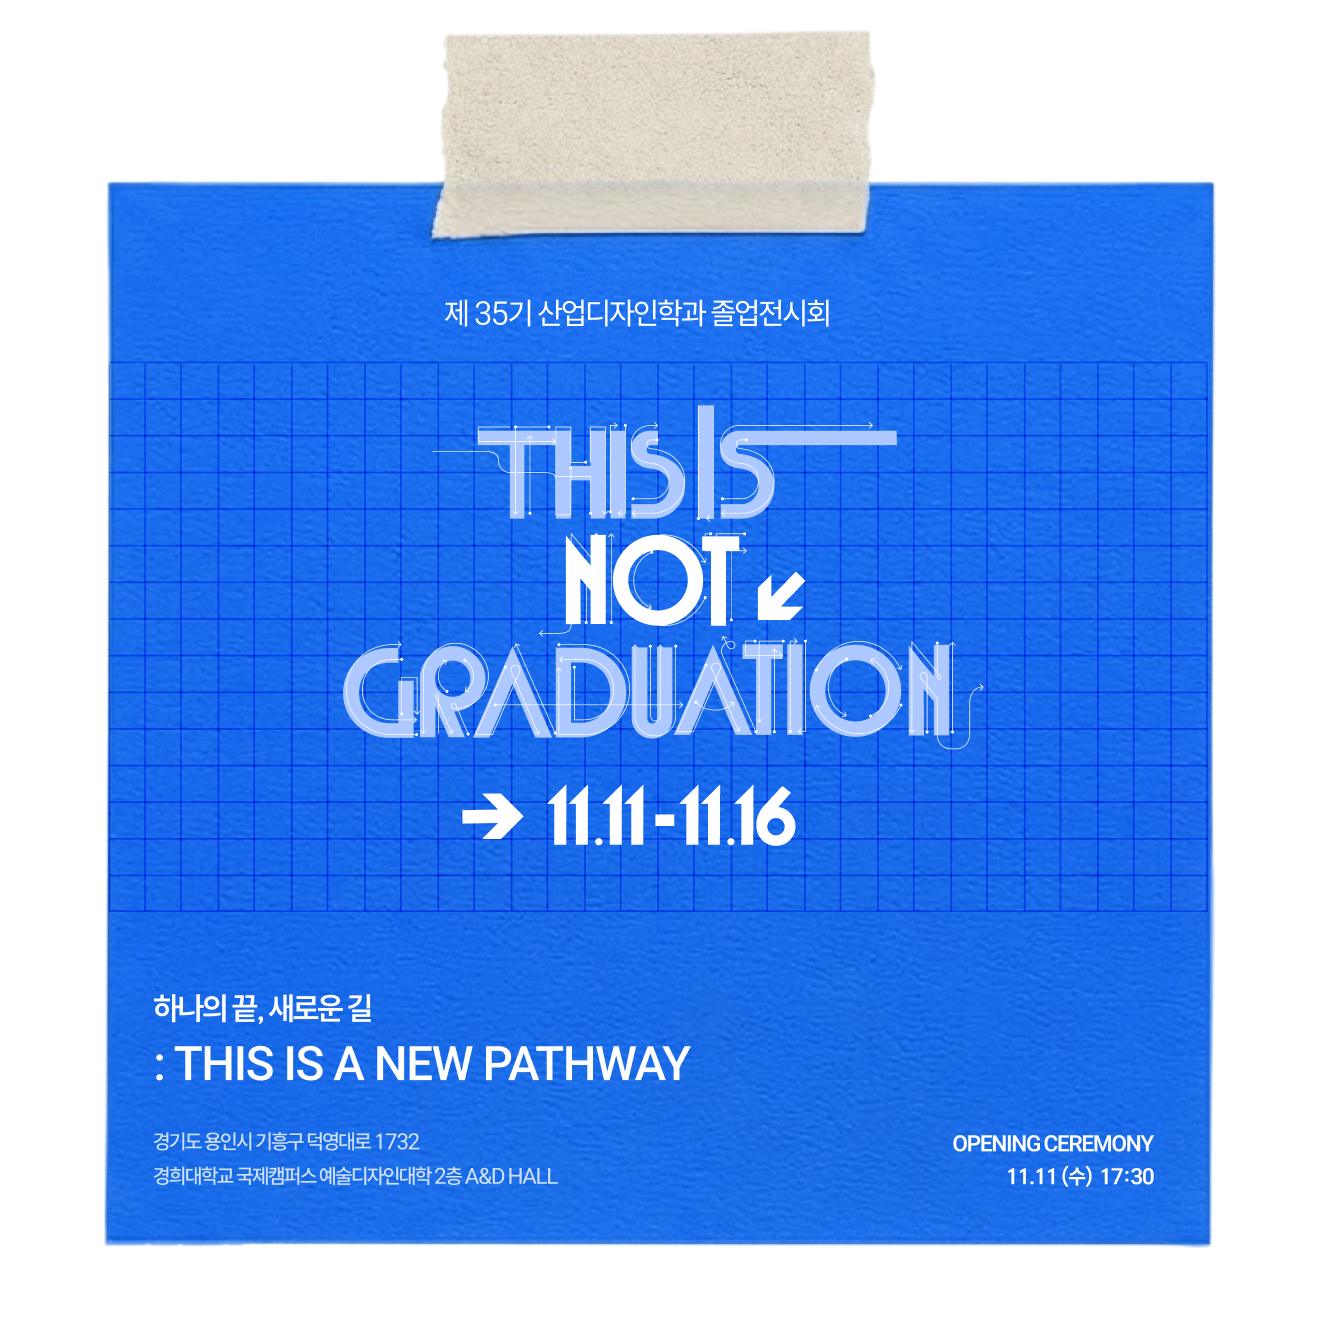
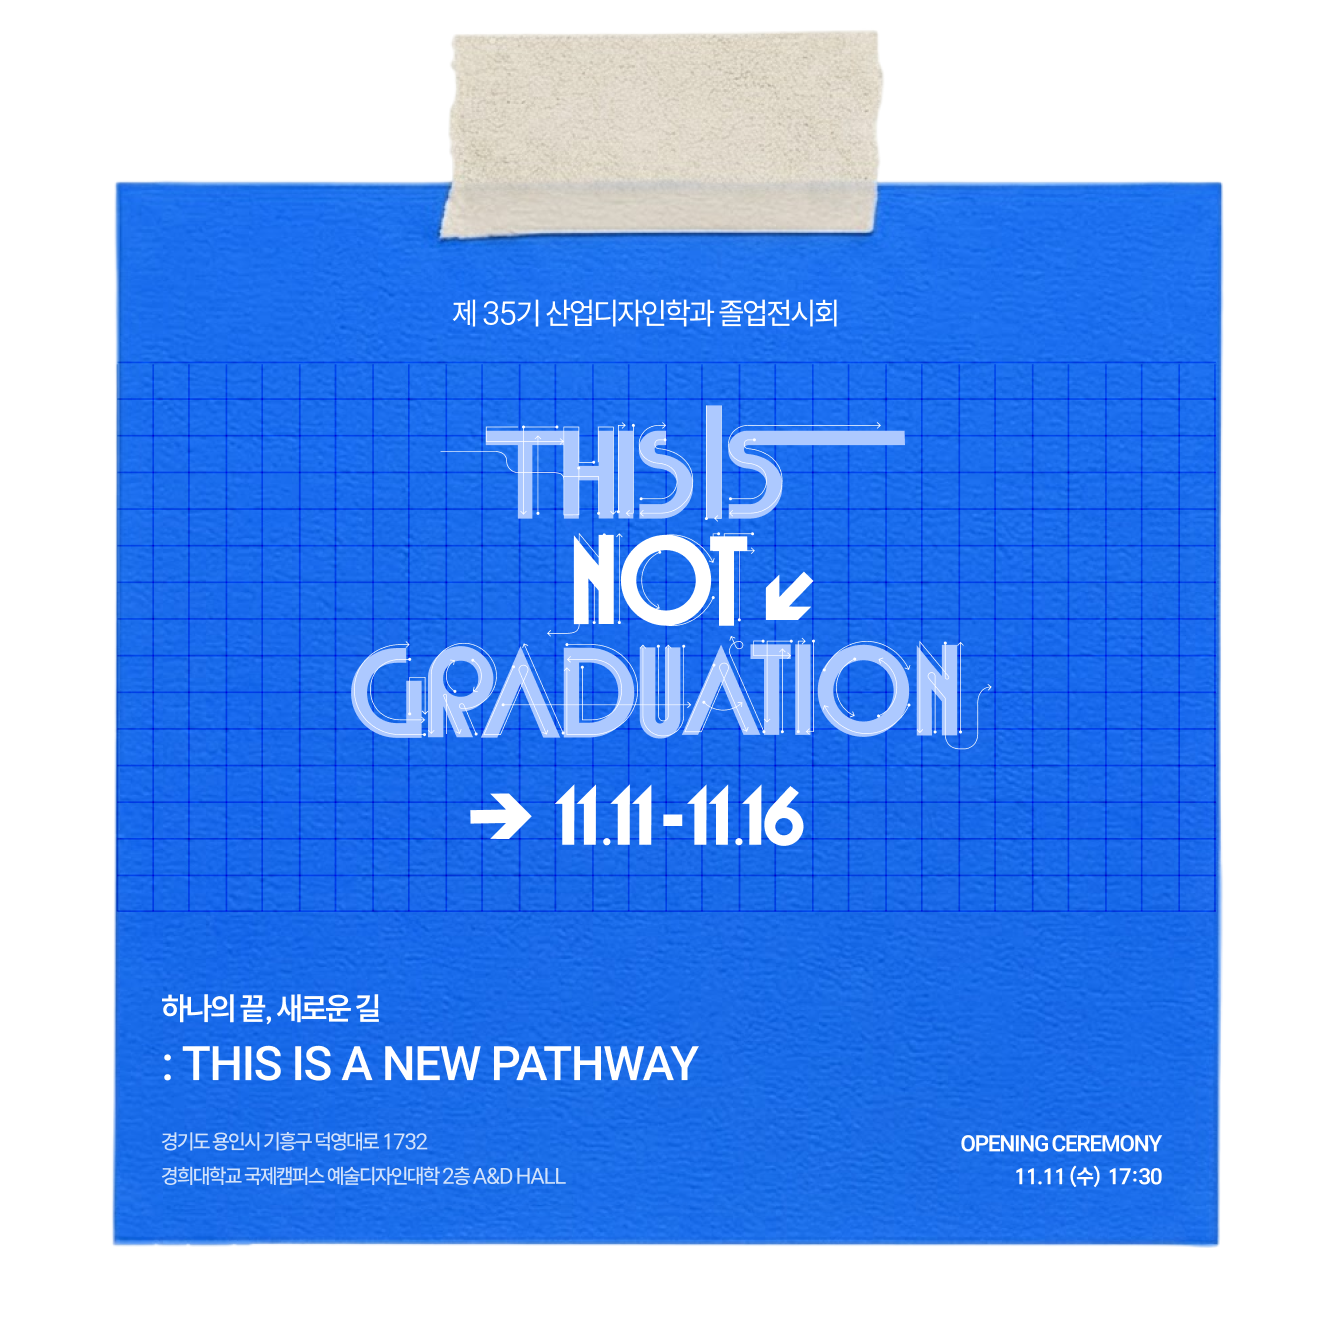
Hero invitation stack with test cards + push-down motion; mobile header
- Replace invitations with test PNGs (660 canvas @2x, transparent, pre-rotated)
  stacked in place; only the latest year in color, older years grayscale
- Stack-in motion: each card pushes down from above the viewport, oldest
  first (23 -> 26), 150ms stagger
- Prefer invitation.png over jpg; remove unused 2023-2025 invitation.jpg
- Header: #121212 at 80%; below 1280 logos scaled to Figma mobile (0.786x),
  16px side padding, 44px height, description text hidden

Changed region(s): [[0.0621, 0.1242, 0.9318, 0.9629], [0.3417, 0.2174, 0.6523, 0.2485], [0.7144, 0.8386, 0.8697, 0.9008]]

diff --git a/src/components/Phase1Hero.tsx b/src/components/Phase1Hero.tsx
@@ -29,22 +29,17 @@ export default function Phase1Hero({ exhibitions }: Props) {
       {/* Figma 실측: 360×360(모바일), 660×660(1440), 726×726(1920) — 전부 정방형.
           모바일 구간은 360 × 배율, 1280~1439는 텍스트 칼럼(530)과 한 줄에 들어가도록 480 */}
       <div className="relative aspect-square w-full max-w-[calc(360px*var(--s))] shrink-0 min-[1280px]:max-w-[480px] min-[1440px]:max-w-[660px] min-[1920px]:max-w-[726px]">
+        {/* 초대장 PNG는 각자 회전·위치가 들어간 660 정사각 투명 캔버스라 같은 자리에 그대로 겹침.
+            오래된 연도부터(23→24→25→26) 화면 위에서 빠르게 내려와 쌓이고, 최신 연도만 컬러·나머지는 회색조 */}
         {stack.map((ex, i) => {
           const isLatest = i === stack.length - 1;
-          const depth = stack.length - 1 - i; // 0 = 최신(맨 위), 커질수록 더 아래/오래된 카드
-          const rotation = ((i * 37) % 13) - 6; // -6deg ~ +6deg, 연도마다 고정된 각도
-          const scale = isLatest ? 1 : 0.94 - depth * 0.015;
-          const offsetX = isLatest ? 0 : (i % 2 === 0 ? -1 : 1) * (6 + depth * 5);
-          const offsetY = isLatest ? 0 : depth * 7;
           return (
             <div
               key={ex.year}
-              className="absolute inset-0 origin-center animate-[stack-in_0.6s_ease-out_both] shadow-[0_20px_60px_rgba(0,0,0,0.35)]"
-              style={{
-                zIndex: i,
-                transform: `translate(${offsetX}px, ${offsetY}px) rotate(${rotation}deg) scale(${scale})`,
-                animationDelay: `${i * 90}ms`,
-              }}
+              className={`absolute inset-0 animate-[stack-in_0.6s_cubic-bezier(0.22,1,0.36,1)_both] ${
+                isLatest ? "" : "grayscale"
+              }`}
+              style={{ zIndex: i, animationDelay: `${i * 150}ms` }}
             >
               {ex.invitationSrc ? (
                 <Image
@@ -52,7 +47,7 @@ export default function Phase1Hero({ exhibitions }: Props) {
                   alt={`${ex.year} ${ex.titleKo} 초대장`}
                   fill
                   sizes="(min-width: 1920px) 726px, (min-width: 1440px) 660px, (min-width: 1280px) 480px, (min-width: 1024px) 558px, (min-width: 768px) 515px, (min-width: 640px) 450px, 360px"
-                  className="object-cover"
+                  className="object-contain"
                   priority={isLatest}
                 />
               ) : (

diff --git a/src/components/Header.tsx b/src/components/Header.tsx
@@ -1,18 +1,20 @@
+// 모바일~태블릿(~1279)은 Figma 모바일 헤더(390) 실측: 데스크탑의 0.786배(휘장 40→31.43),
+// 좌우 여백 16, 높이 44. 설명 텍스트는 숨기고 1280부터 데스크탑 크기 + 텍스트 표시
 export default function Header() {
   return (
-    <header className="fixed top-0 left-0 right-0 z-50 flex items-center justify-center px-6 py-2 min-[1280px]:px-[50px] backdrop-blur-[4px] bg-[rgba(20,20,20,0.8)] shadow-[0px_2px_40px_0px_rgba(0,0,0,0.02)]">
+    <header className="fixed top-0 left-0 right-0 z-50 flex items-center justify-center px-4 py-[6.29px] min-[1280px]:px-[50px] min-[1280px]:py-2 backdrop-blur-[4px] bg-[rgba(18,18,18,0.8)] shadow-[0px_2px_40px_0px_rgba(0,0,0,0.02)]">
       <div className="flex w-full max-w-[1920px] items-center gap-6">
-        <div className="flex items-center gap-3">
+        <div className="flex items-center gap-[9.43px] min-[1280px]:gap-3">
           {/* eslint-disable-next-line @next/next/no-img-element */}
           <img
             src="/logo/khu1.svg"
             alt="경희대학교 휘장"
-            className="size-[40px] shrink-0 object-contain"
+            className="size-[31.43px] shrink-0 object-contain min-[1280px]:size-[40px]"
           />
           {/* eslint-disable-next-line @next/next/no-img-element */}
-          <img src="/logo/kiiid.svg" alt="KHID" className="h-[18px] w-auto" />
+          <img src="/logo/kiiid.svg" alt="KHID" className="h-[14.23px] w-auto min-[1280px]:h-[18px]" />
         </div>
-        <div className="font-sans text-[14px] leading-[1.2] tracking-[-0.56px] text-foreground">
+        <div className="hidden font-sans text-[14px] leading-[1.2] tracking-[-0.56px] text-foreground min-[1280px]:block">
           <p>KyungHee Industrial Design</p>
           <p>Graduation On-line Exhibition Archive</p>
         </div>

diff --git a/src/lib/exhibitions.ts b/src/lib/exhibitions.ts
@@ -54,7 +54,8 @@ export function getExhibitions(): Exhibition[] {
       openingDate: info.openingDate ?? "",
       venue: info.venue ?? "",
       posterSrc: firstExisting(dir, year, "poster", ["jpg", "jpeg", "png"]),
-      invitationSrc: firstExisting(dir, year, "invitation", ["jpg", "jpeg", "png"]),
+      // 초대장은 투명 배경 PNG(660 캔버스 2배)가 기준이라 png를 먼저 찾음
+      invitationSrc: firstExisting(dir, year, "invitation", ["png", "jpg", "jpeg"]),
       movingPosterSrc: firstExisting(dir, year, "moving-poster", ["mp4"]),
       href: `https://khid.archive.khu.ac.kr/${year}`,
     };

diff --git a/src/app/globals.css b/src/app/globals.css
@@ -20,12 +20,13 @@ body {
   font-family: var(--font-freesentation), sans-serif;
 }
 
+/* 히어로 초대장: Figma 프로토타입 "Push - 아래로"처럼 화면 위 바깥에서 밀려 내려와
+   제자리에 쌓임 (페이드 없이 위치 이동만) */
 @keyframes stack-in {
   from {
-    opacity: 0;
-    transform: translateY(24px) scale(0.92);
+    transform: translateY(-100vh);
   }
   to {
-    opacity: 1;
+    transform: translateY(0);
   }
 }
